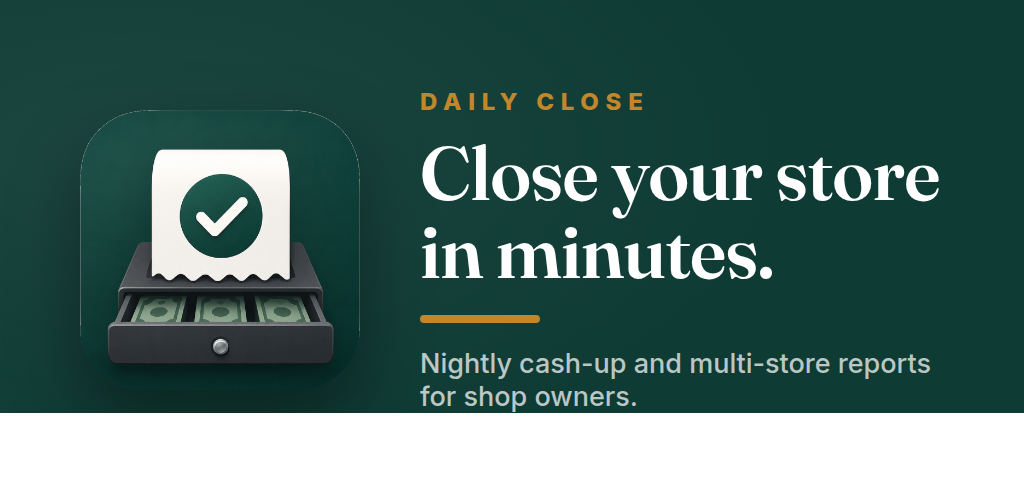
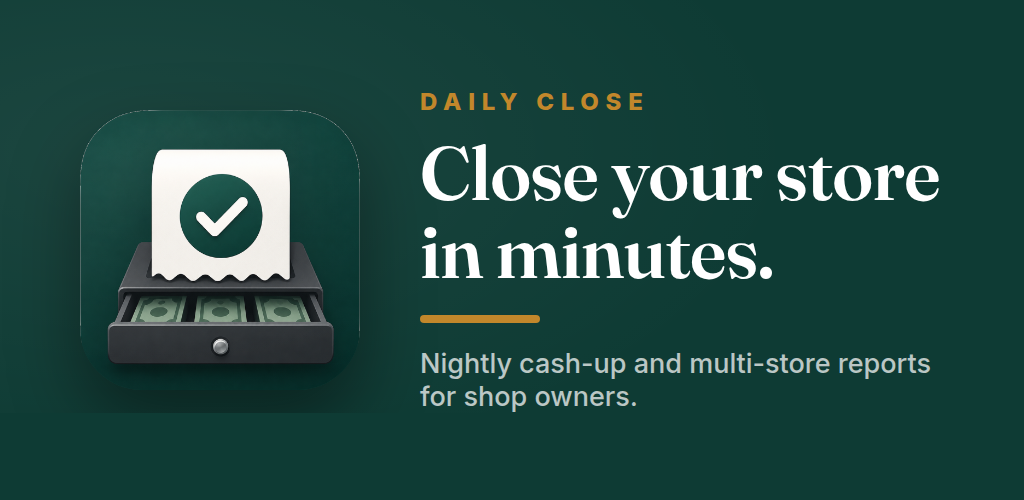
assets(play): fixed feature graphic, Play-valid screenshots, reviewer seed
- feature-graphic: fix white bottom band (flatten onto brand green)
- play-ready/: phone screenshots padded to 2:1 (Play max aspect)
- tablet/: 9:16 tablet screenshots (sides >=1080 for 10-inch slot)
- scripts/seed-demo-reviewer.sh + supabase/seed-reviewer.sql: dedicated
  Play/App Store reviewer account ([email redacted]), idempotent,
  no hardcoded secrets (reads keys from env at runtime)
- AUDIT_BACKLOG: next mobile update items (upload spinner, push notifications)

Changed region(s): [[0.0, 0.81, 1.0, 1.0]]

diff --git a/docs/store-assets/play/feature-graphic.html b/docs/store-assets/play/feature-graphic.html
@@ -6,7 +6,7 @@
 @import url('https://fonts.googleapis.com/css2?family=Fraunces:opsz,wght@9..144,500;9..144,600&family=Inter:wght@500;700;800&display=swap');
 :root{--green:#0e3b34;--gold:#c2872b}
 *{margin:0;padding:0;box-sizing:border-box}
-html,body{width:1024px;height:500px}
+html,body{width:1024px;height:500px;background:#0e3b34}
 .g{width:1024px;height:500px;background:var(--green);position:relative;overflow:hidden;display:flex;align-items:center;gap:60px;padding:0 80px;font-family:Inter,system-ui,sans-serif}
 .g::after{content:"";position:absolute;inset:0;background:radial-gradient(120% 120% at 12% 30%,rgba(255,255,255,.06),transparent 55%);pointer-events:none}
 .icon{width:280px;height:280px;border-radius:62px;flex:none;box-shadow:0 30px 70px rgba(0,0,0,.45);background-image:url('icon-art.png');background-size:cover;background-position:center}

diff --git a/docs/AUDIT_BACKLOG.md b/docs/AUDIT_BACKLOG.md
@@ -1,5 +1,16 @@
 # Audit Backlog
 
+## 📱 Next mobile update (post-launch) — added 2026-06-07
+Captured during the Android Play submission work (v1.0.0 / versionCode 3 is what ships first).
+- [ ] **Loading spinner in the "Uploading & reading report…" box.** During the POS upload/parse
+  step (close flow → step 1 Upload), the yellow status box is static text. Add an animated
+  loading circle so it reads as in-progress. File: `apps/mobile/src/screens/EmployeeScreen.tsx`
+  (the upload/parse status block).
+- [ ] **Push notification system for mobile.** Native push (Expo notifications) for missed-close
+  alerts and daily summaries — currently those only go out via email/SMS/WhatsApp. Needs:
+  `expo-notifications`, push-token registration + storage, and a send path wired into the
+  existing notifications service.
+
 ## Session — 2026-05-30 (Stripe webhook signature — CRITICAL #1 fixed)
 
 Shipped: